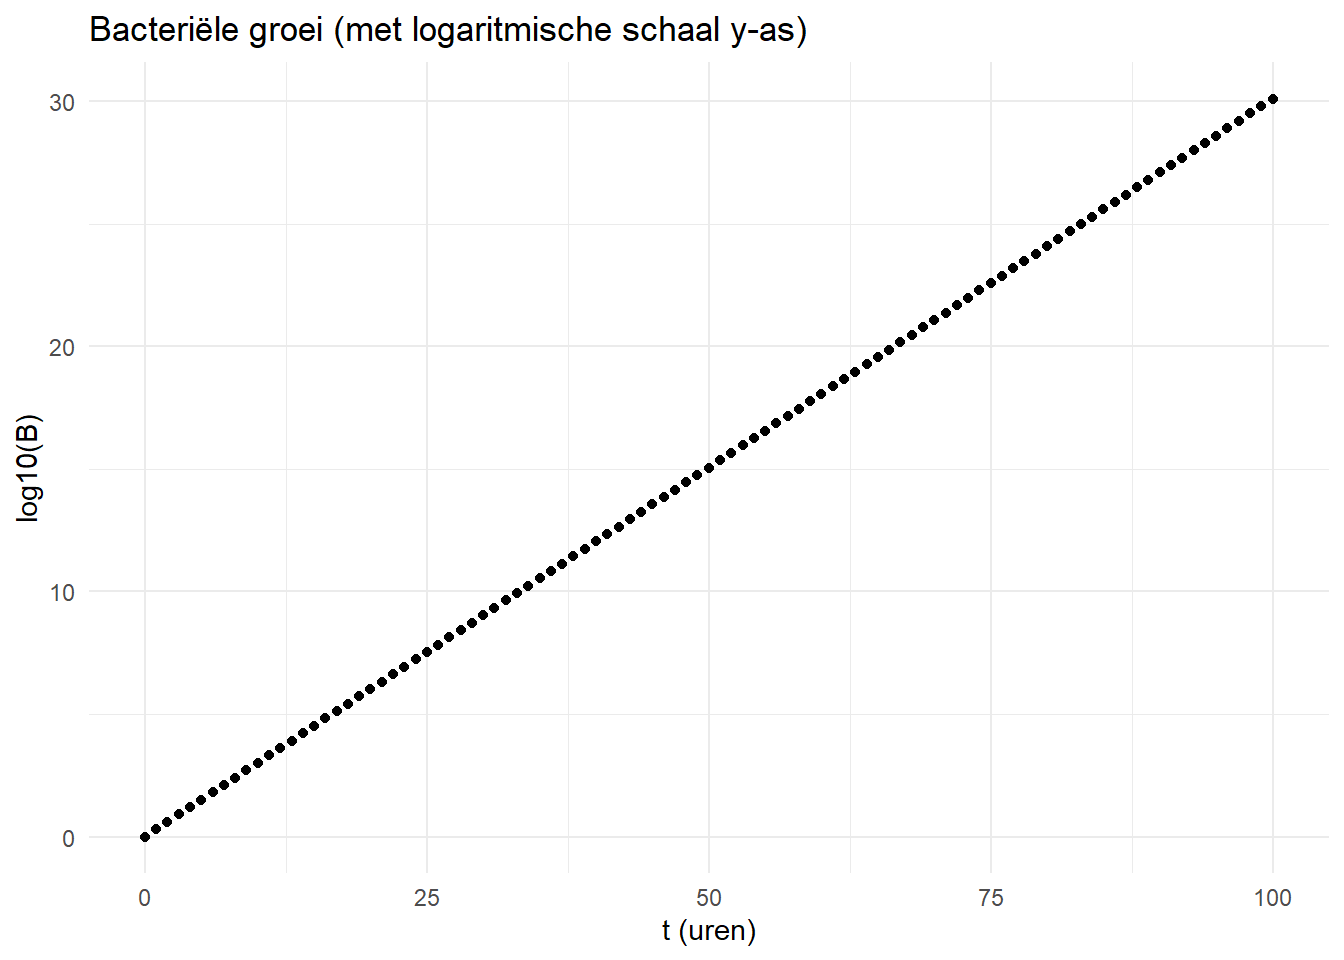
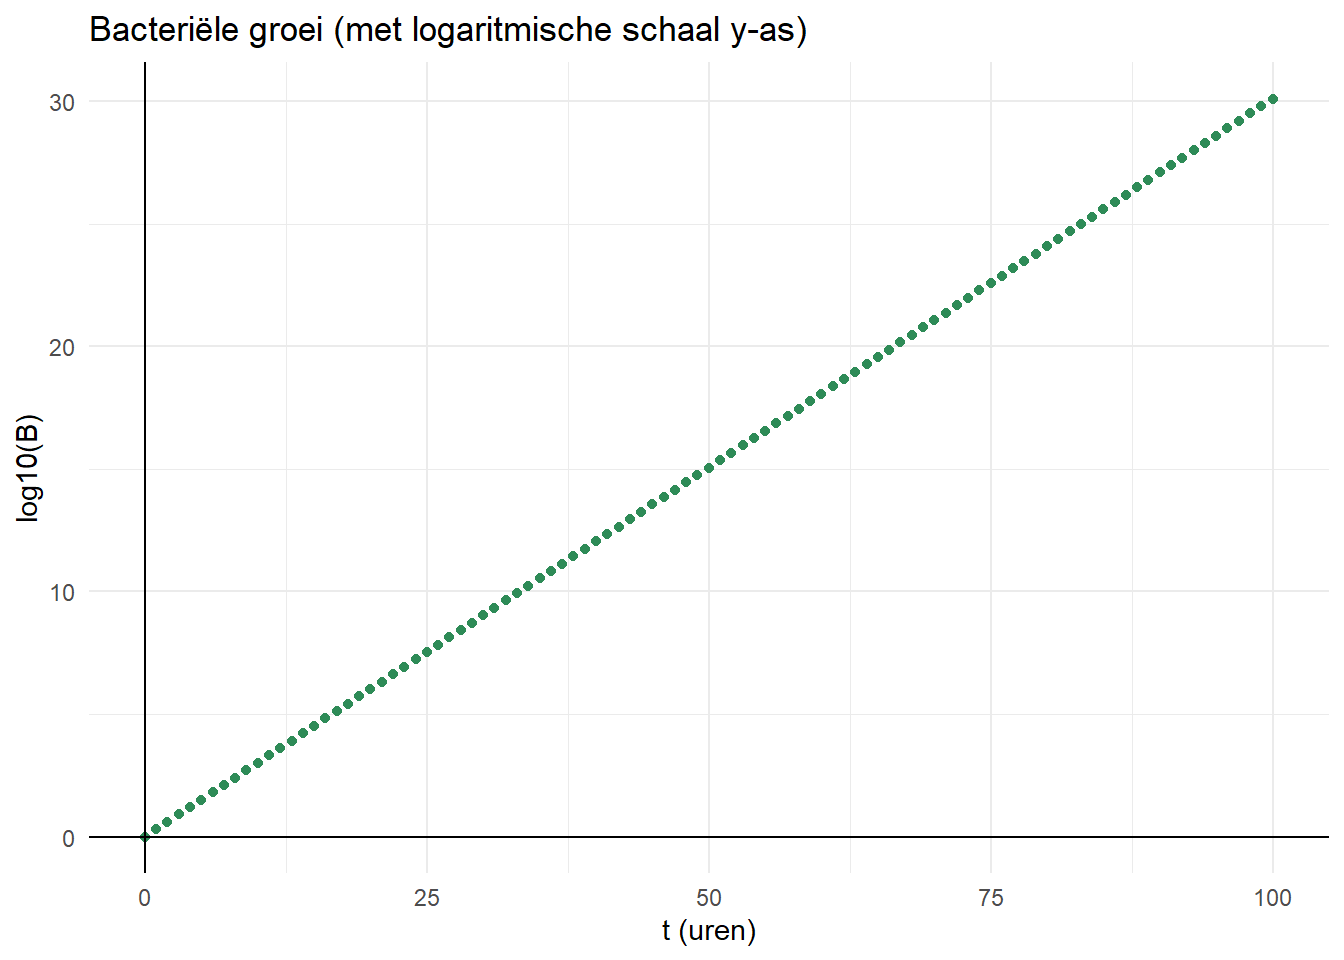
Een aantal plots toegevoegd aan wiskundedeel

diff --git a/Wiskunde/WiskundeMadelon/_book/breuken.html b/Wiskunde/WiskundeMadelon/_book/breuken.html
@@ -246,9 +246,9 @@ Tip
 <h3 class="unnumbered anchored" data-anchor-id="delen">Delen</h3>
 <p>De vuistregel bij het delen door een breuk is: “delen door een breuk is vermenigvuldigen met het omgekeerde”. Dit geldt zowel bij het delen van gehele getallen als bij het delen van breuken.</p>
 <p><span class="math display">\[
-a:\frac{b}{c} = a\cdot\frac{c}{b} = \frac{ac}{b}
+a\div \frac{b}{c} = a\cdot\frac{c}{b} = \frac{ac}{b}
 \]</span> <span class="math display">\[
-\frac{a}{b}:\frac{c}{d} = \frac{a}{b}\cdot\frac{d}{c} = \frac{ad}{bc}
+\frac{a}{b}\div\frac{c}{d} = \frac{a}{b}\cdot\frac{d}{c} = \frac{ad}{bc}
 \]</span></p>
 </section>
 <section id="optellen-en-aftrekken" class="level3 unnumbered">
@@ -274,7 +274,7 @@ a:\frac{b}{c} = a\cdot\frac{c}{b} = \frac{ac}{b}
 </section>
 <section id="breuken-uit-een-vergelijking-halen" class="level3 unnumbered">
 <h3 class="unnumbered anchored" data-anchor-id="breuken-uit-een-vergelijking-halen">Breuken uit een vergelijking halen</h3>
-<p>Soms kan het handig zijn om een vergelijking met een breuk erin om te schrijven, zodat de breuk verdwijnt. Dit kun je doen door de vergelijking aan de rechter- en linkerkant van het is-teken (=) te vermenigvuldigen met de noemer van de breuk. Doordat je beide kanten van het is-teken vermenigvuldigt met hetzelfde getal, blijft de vergelijking kloppend.</p>
+<p>Soms kan het handig zijn om een vergelijking met een breuk erin om te schrijven, zodat de breuk verdwijnt. Dit kun je doen door de vergelijking aan de rechter- en linkerkant van het = teken te vermenigvuldigen met de noemer van de breuk. Doordat je beide kanten van het is-teken vermenigvuldigt met hetzelfde getal, blijft de vergelijking kloppend.</p>
 <p><span class="math display">\[
 \frac{a}{b} = cx
 \]</span> <span class="math display">\[
@@ -311,7 +311,7 @@ a = bcx
 <p><span class="theorem-title"><strong>Oefening 2.1 </strong></span>Reken uit, en vereenvoudig waar mogelijk:</p>
 <p><strong>a.</strong> <span class="math inline">\(\frac{1}{7}\cdot\frac{2}{4}\)</span></p>
 <p><strong>b.</strong> <span class="math inline">\(\frac{1}{6}-\frac{2}{3}\)</span></p>
-<p><strong>c.</strong> <span class="math inline">\(\frac{2}{3}:\frac{4}{5}\)</span></p>
+<p><strong>c.</strong> <span class="math inline">\(\frac{2}{3}\div\frac{4}{5}\)</span></p>
 <p><strong>d.</strong> <span class="math inline">\(\frac{4}{12}+\frac{5}{36}\)</span></p>
 </div>
 <div id="exr-breuken-2" class="theorem exercise">
@@ -327,13 +327,13 @@ a = bcx
 </div>
 <div id="exr-breuken-5" class="theorem exercise">
 <p><span class="theorem-title"><strong>Oefening 2.5 </strong></span>Los op voor A:</p>
-<p><span class="math inline">\(25A:\frac{3}{7} = 12 - \frac{1}{3}A\)</span></p>
+<p><span class="math inline">\(25A\div\frac{3}{7} = 12 - \frac{1}{3}A\)</span></p>
 </div>
 <div id="exr-breuken-6" class="theorem exercise">
 <p><span class="theorem-title"><strong>Oefening 2.6 </strong></span>Los op voor N:</p>
 <p><strong>a.</strong> <span class="math inline">\((b-\frac{N}{k})N = 0\)</span></p>
-<p><strong>b.</strong> <span class="math inline">\((b-d(1+\frac{N}{k}))N = 0, d\neq0; k\neq0\)</span></p>
-<p><strong>c.</strong> <span class="math inline">\((\frac{b}{1+N/h}-d)N = 0, b\neq0\)</span></p>
+<p><strong>b.</strong> <span class="math inline">\((b-d(1+\frac{N}{k}))N = 0\)</span> waarbij <span class="math inline">\(d\neq0; k\neq0\)</span></p>
+<p><strong>c.</strong> <span class="math inline">\((\frac{b}{1+N/h}-d)N = 0\)</span> waarbij <span class="math inline">\(b\neq0\)</span></p>
 </div>
 
 

diff --git a/Wiskunde/WiskundeMadelon/_book/exponenten.html b/Wiskunde/WiskundeMadelon/_book/exponenten.html
@@ -233,8 +233,8 @@ Bijvoorbeeld <span class="math inline">\(\sqrt{4} = 4^{1\over2} = 2\)</span>.</p
 <td><span class="math inline">\(2^2 \cdot 2^3 = 2^{2+3} = 2^5\)</span></td>
 </tr>
 <tr class="even">
-<td><span class="math inline">\(a^n : a^m = a^{n - m}\)</span> als <span class="math inline">\(a \neq 0\)</span></td>
-<td><span class="math inline">\(2^5 : 2^2 = 2^{5-2} = 2^3\)</span></td>
+<td><span class="math inline">\(a^n \div a^m = a^{n - m}\)</span> als <span class="math inline">\(a \neq 0\)</span></td>
+<td><span class="math inline">\(2^5 \div 2^2 = 2^{5-2} = 2^3\)</span></td>
 </tr>
 <tr class="odd">
 <td><span class="math inline">\((a^n)^m = a^{nm}\)</span></td>
@@ -342,9 +342,9 @@ Tip: bepaal eerst wat de groeisnelheid van de kolonie is.</p>
 </div>
 <div id="exr-exp-5" class="theorem exercise">
 <p><span class="theorem-title"><strong>Oefening 3.5 </strong></span>Los op voor x:</p>
-<p><strong>a.</strong> <span class="math inline">\(\log (2x) = 3\)</span></p>
+<p><strong>a.</strong> <span class="math inline">\(\log{2x} = 3\)</span></p>
 <p><strong>b.</strong> <span class="math inline">\(5e^x=11\)</span></p>
-<p><strong>c.</strong> <span class="math inline">\(\  log_2(64^x)=36\)</span></p>
+<p><strong>c.</strong> <span class="math inline">\(^2\log{64^x}=36\)</span></p>
 </div>
 <div id="exr-exp-6" class="theorem exercise">
 <p><span class="theorem-title"><strong>Oefening 3.6 </strong></span>&nbsp;</p>

diff --git a/Wiskunde/WiskundeMadelon/_book/algebra.html b/Wiskunde/WiskundeMadelon/_book/algebra.html
@@ -250,7 +250,7 @@ ul.task-list li input[type="checkbox"] {
 <li><p><span class="math inline">\(2x-16 = - 10 - x\)</span></p></li>
 <li><p>Aan beide kanten x optellen: <span class="math inline">\(3x-16 = - 10\)</span></p></li>
 <li><p>Aan beide kanten 16 aftrekken: <span class="math inline">\(3x = 6\)</span></p></li>
-<li><p>Aan beide kanten delen door 3: <span class="math inline">\(x = 6:3 \rightarrow x = 2\)</span></p></li>
+<li><p>Aan beide kanten delen door 3: <span class="math inline">\(x = 6/3 \rightarrow x = 2\)</span></p></li>
 </ol>
 </div>
 </div>
@@ -284,7 +284,7 @@ ul.task-list li input[type="checkbox"] {
 <ol type="1">
 <li><p><span class="math display">\[ x = 0 \]</span></p>
 <p>OF</p></li>
-<li><p><span class="math display">\[2x+4 = 0\]</span> <span class="math display">\[2x = -4\]</span> <span class="math display">\[x = -4:2\]</span> <span class="math display">\[x = -2\]</span></p></li>
+<li><p><span class="math display">\[2x+4 = 0\]</span> <span class="math display">\[2x = -4\]</span> <span class="math display">\[x = -4/2\]</span> <span class="math display">\[x = -2\]</span></p></li>
 </ol></li>
 </ol>
 </div>
